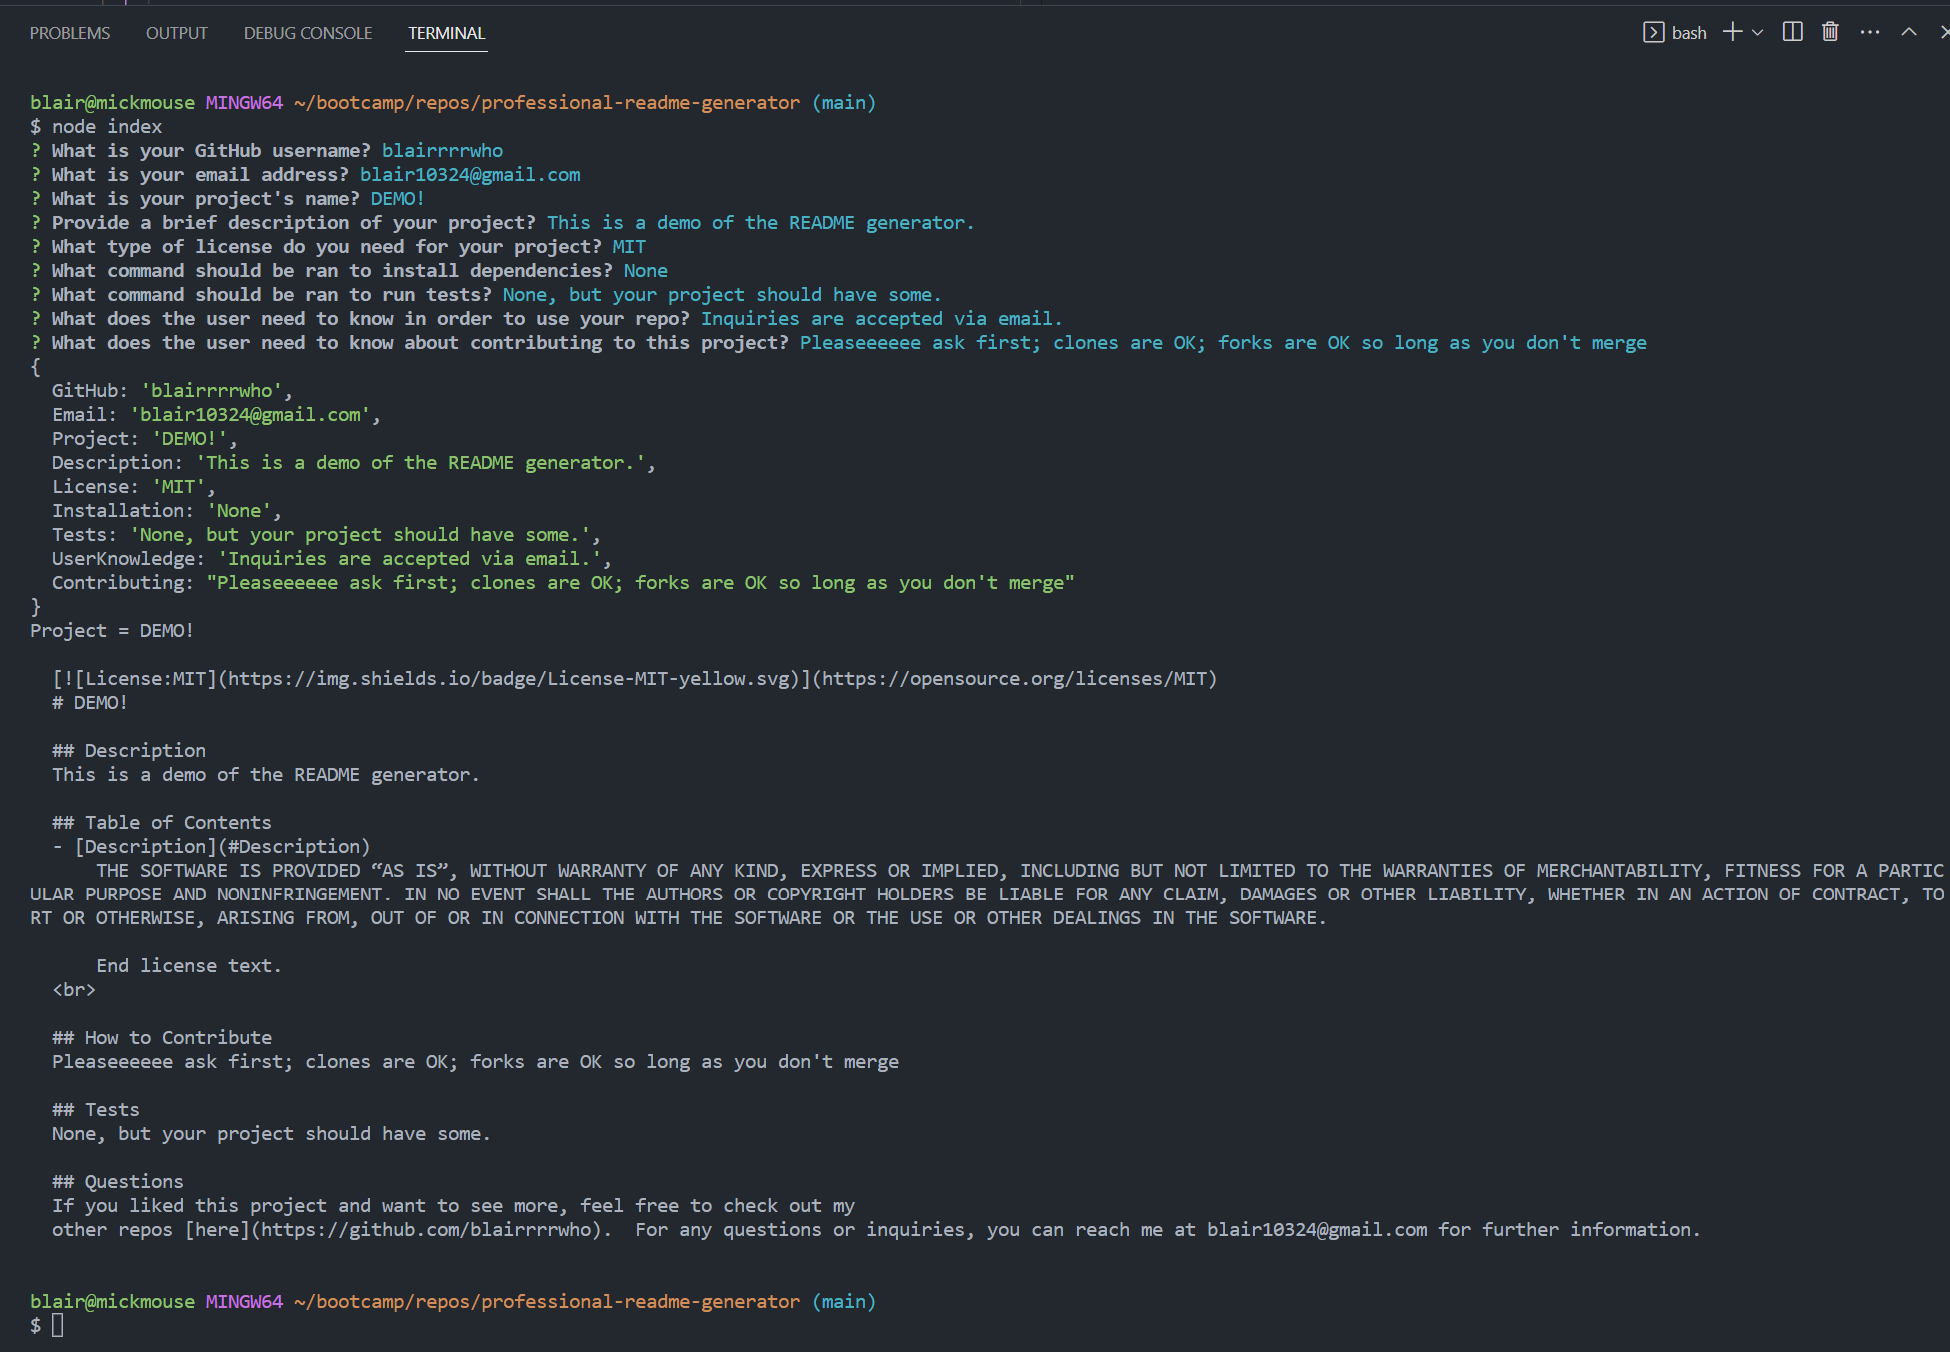
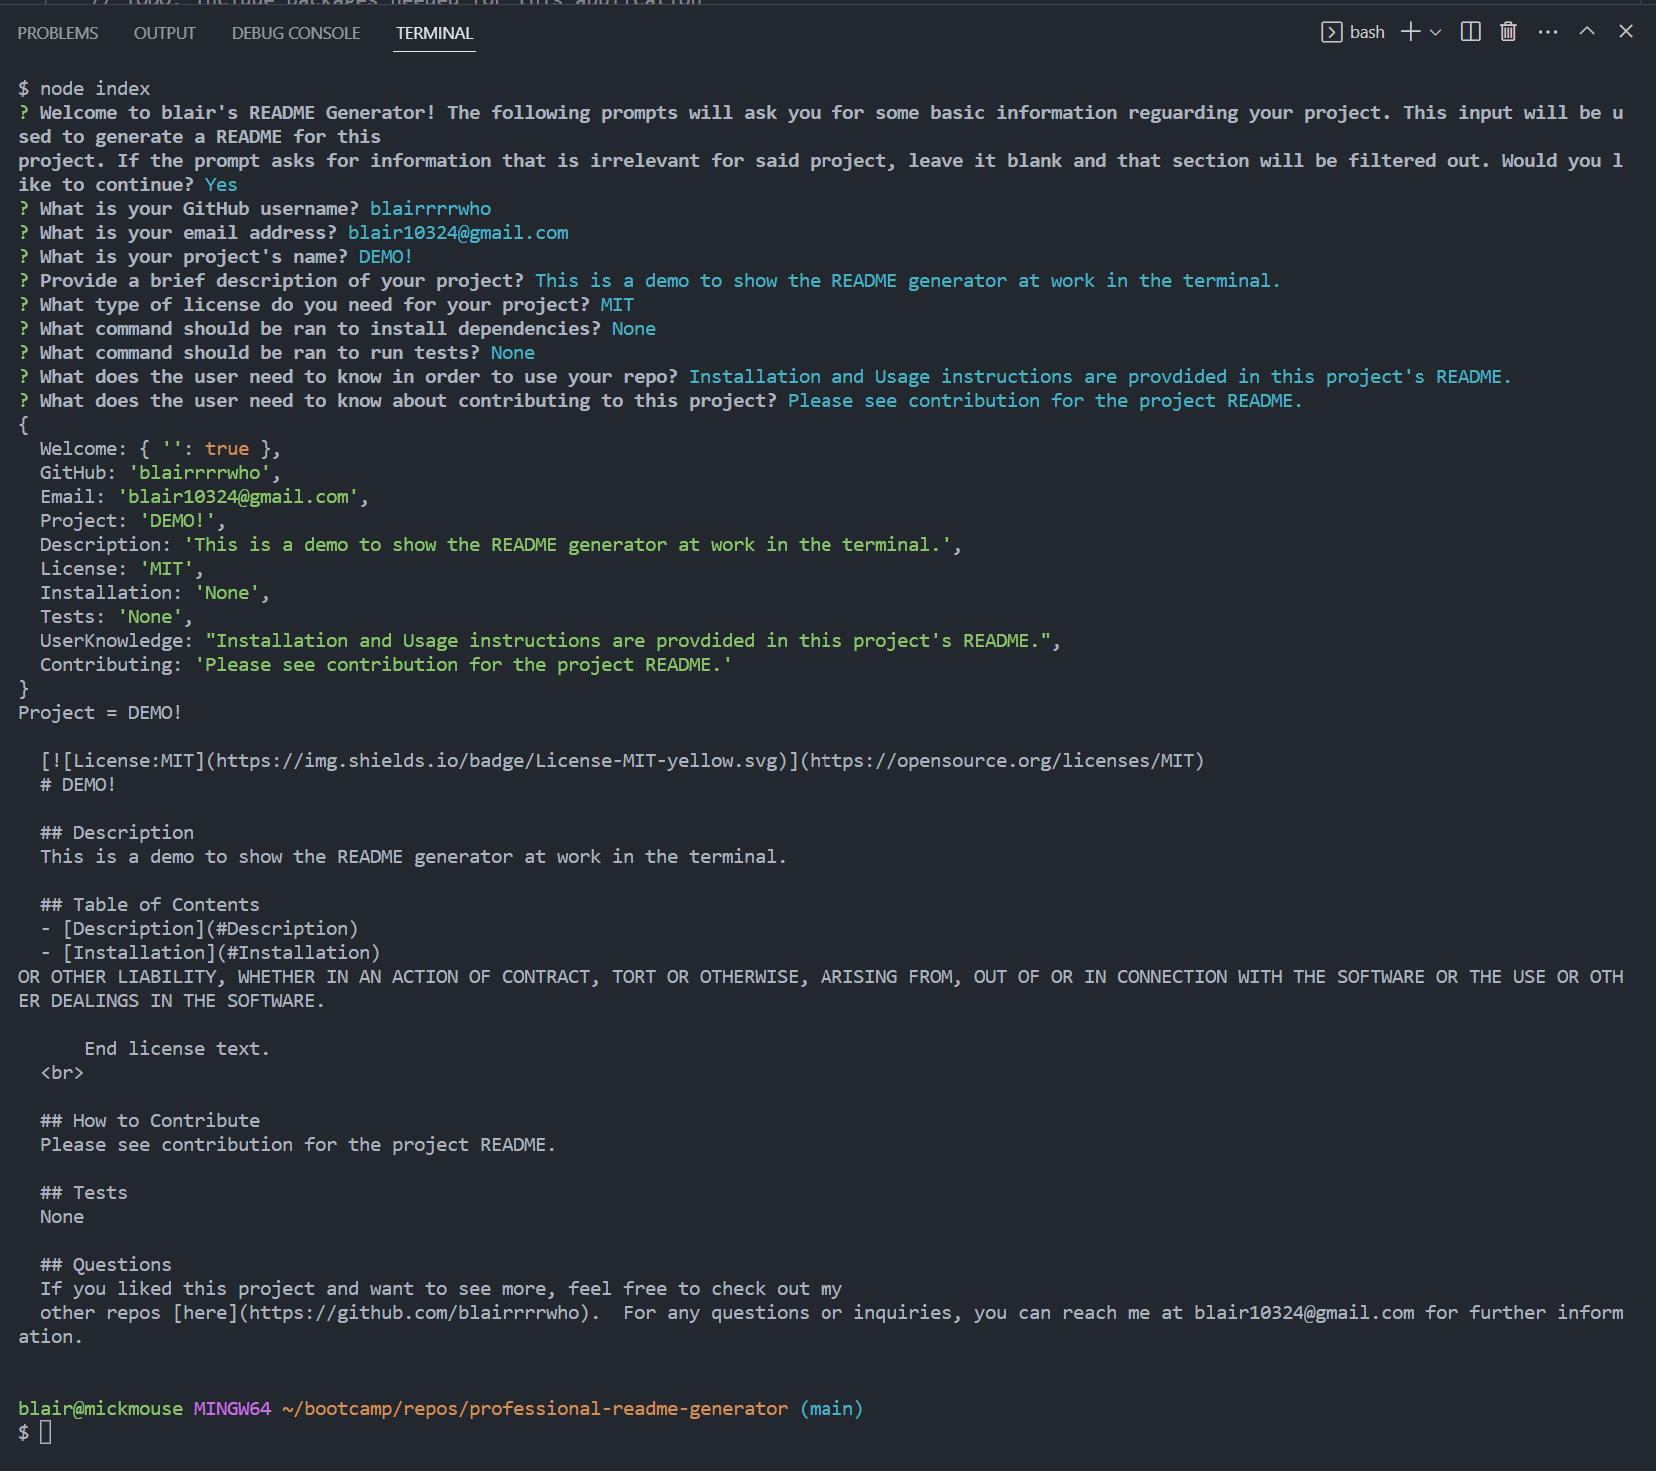
added a confirm promt to welcome the user when using this app

diff --git a/index.js b/index.js
@@ -5,58 +5,63 @@ const generateMarkdown = require('./Develop/utils/generateMarkdown');
 
 // TODO: Create an array of questions for user input
 const questions = [
-    {
-        type: 'input',
-        name: 'GitHub',
-        message: 'What is your GitHub username?',
-      },
-      {
-        type: 'input',
-        name: 'Email',
-        message: 'What is your email address?',
-      },
-      {
-        type: 'input',
-        name: 'Project',
-        message: 'What is your project\'s name?',
-      },
-      {
-        type: 'input',
-        name: 'Description',
-        message: 'Provide a brief description of your project?',
-      },
-      {
-        type: 'list',
-        name: 'License',
-        message: 'What type of license do you need for your project?',
-        choices: [
-            'MIT',
-            'Apache',
-            'IBM',
-            'Mozilla',
-            'Unlicensed',
-        ]
-      },
-      {
-        type: 'input',
-        name: 'Installation',
-        message: 'What command should be ran to install dependencies?',
-      },
-      {
-        type: 'input',
-        name: 'Tests',
-        message: 'What command should be ran to run tests?',
-      },
-      {
-        type: 'input',
-        name: 'UserKnowledge',
-        message: 'What does the user need to know in order to use your repo?',
-      },
-      {
-        type: 'input',
-        name: 'Contributing',
-        message: 'What does the user need to know about contributing to this project?',
-      },
+  {
+    type: 'confirm',
+    name: 'Welcome.',
+    message: "Welcome to blair's README Generator! The following prompts will ask you for some basic information reguarding your project. This input will be used to generate a README for this project. If the prompt asks for information that is irrelevant for said project, leave it blank and that section will be filtered out. Would you like to continue?",
+  },
+  {
+    type: 'input',
+    name: 'GitHub',
+    message: 'What is your GitHub username?',
+  },
+  {
+    type: 'input',
+    name: 'Email',
+    message: 'What is your email address?',
+  },
+  {
+    type: 'input',
+    name: 'Project',
+    message: 'What is your project\'s name?',
+  },
+  {
+    type: 'input',
+    name: 'Description',
+    message: 'Provide a brief description of your project?',
+  },
+  {
+    type: 'list',
+    name: 'License',
+    message: 'What type of license do you need for your project?',
+    choices: [
+      'MIT',
+      'Apache',
+      'IBM',
+      'Mozilla',
+      'Unlicensed',
+    ]
+  },
+  {
+    type: 'input',
+    name: 'Installation',
+    message: 'What command should be ran to install dependencies?',
+  },
+  {
+    type: 'input',
+    name: 'Tests',
+    message: 'What command should be ran to run tests?',
+  },
+  {
+    type: 'input',
+    name: 'UserKnowledge',
+    message: 'What does the user need to know in order to use your repo?',
+  },
+  {
+    type: 'input',
+    name: 'Contributing',
+    message: 'What does the user need to know about contributing to this project?',
+  },
 ];
 
 

diff --git a/myREADME.md b/myREADME.md
@@ -1,9 +1,9 @@
 
   [![License:MIT](https://img.shields.io/badge/License-MIT-yellow.svg)](https://opensource.org/licenses/MIT)
-  # DEMO!
+  # a;lsdjf
     
   ## Description
-  This is a demo of the README generator.
+  sd;lfj
   
   ## Table of Contents
   - [Description](#Description)
@@ -15,10 +15,10 @@
   - [Questions](#Questions)
 
   ## Installation
-  None
+  
     
   ## Usage
-  Inquiries are accepted via email.
+  
   
   ## License
   This project is licensed under the [MIT](https://opensource.org/license/mit/) license. 
@@ -37,11 +37,11 @@
   <br>
   
   ## How to Contribute 
-  Pleaseeeeee ask first; clones are OK; forks are OK so long as you don't merge
+  
   
   ## Tests
-  None, but your project should have some.
+  
   
   ## Questions
   If you liked this project and want to see more, feel free to check out my 
-  other repos [here](https://github.com/blairrrrwho).  For any questions or inquiries, you can reach me at blair10324@gmail.com for further information.
+  other repos [here](https://github.com/blairwho).  For any questions or inquiries, you can reach me at blair for further information.

diff --git a/Develop/notes.md b/Develop/notes.md
@@ -48,5 +48,4 @@ THEN I am taken to the corresponding section of the README
 
 
 TODO: 
-fix how the license info is showing up (def for MIT)
-fix link for github
+filter out sections left blank during the question prompts
